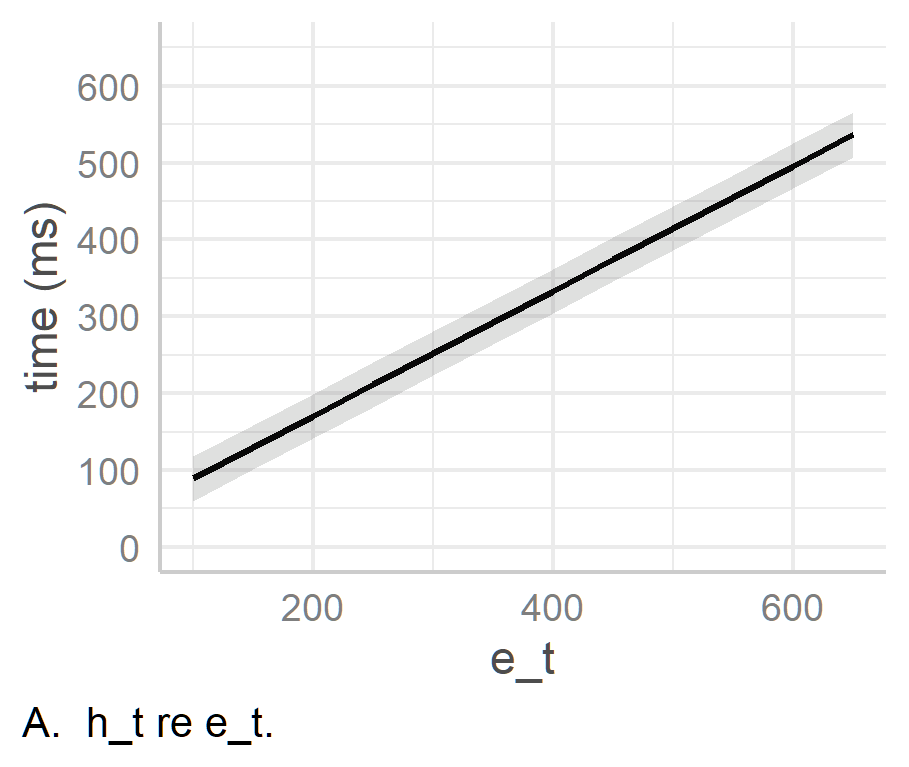
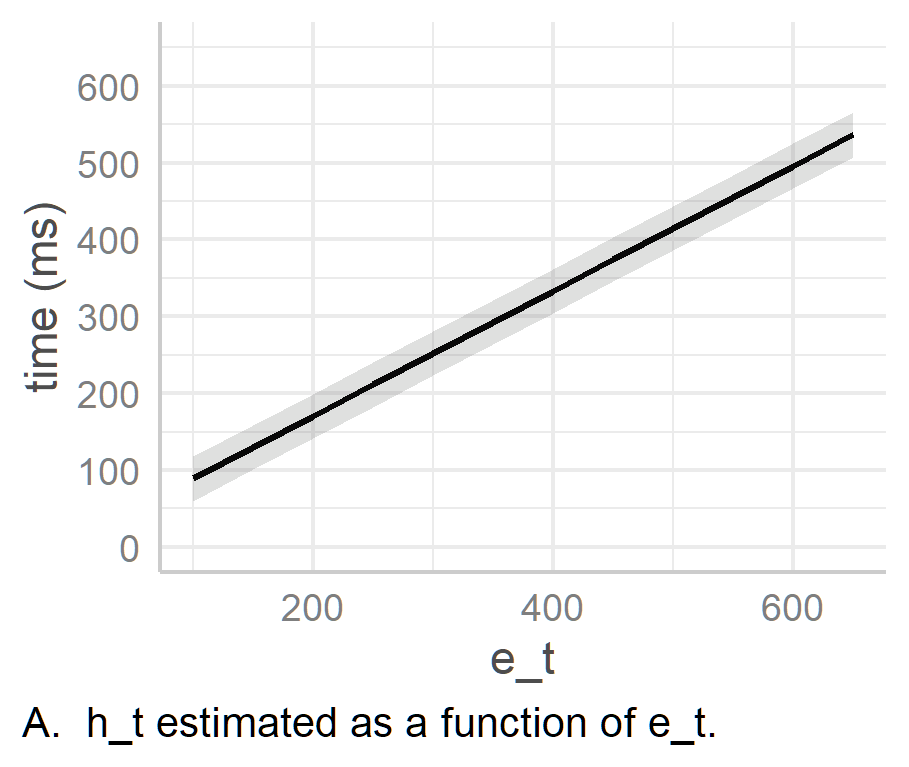
eod

Changed region(s): [[0.154, 0.9296, 0.8009, 0.9896]]

diff --git a/6_Analysis_of_form/5_nuc_lme_all.html b/6_Analysis_of_form/5_nuc_lme_all.html
@@ -6713,7 +6713,7 @@ conditional R<sup>2</sup>
 </tr>
 </tbody>
 </table>
[2 lines of base64/hex data omitted]
 <table class="table" style="width: auto !important; ">
 <caption>
 Predicted values of h_t
@@ -8902,9 +8902,9 @@ fin_phonL%
 </div>
 <div id="lh-slope" class="section level4">
 <h4>LH Slope</h4>
-<p>Based on results from tonal target analysis, it looksl like
+<p>Based on results from tonal target analysis, it looks like
 compression and truncation may be in effect. As compression leads to
-decrease in duration of rise (but not necessarily much descrease in
+decrease in duration of rise (but not necessarily much decrease in
 excursion size), and as slope increases exponentially as duration
 decreases, slope has been logged here.</p>
 <ul>
